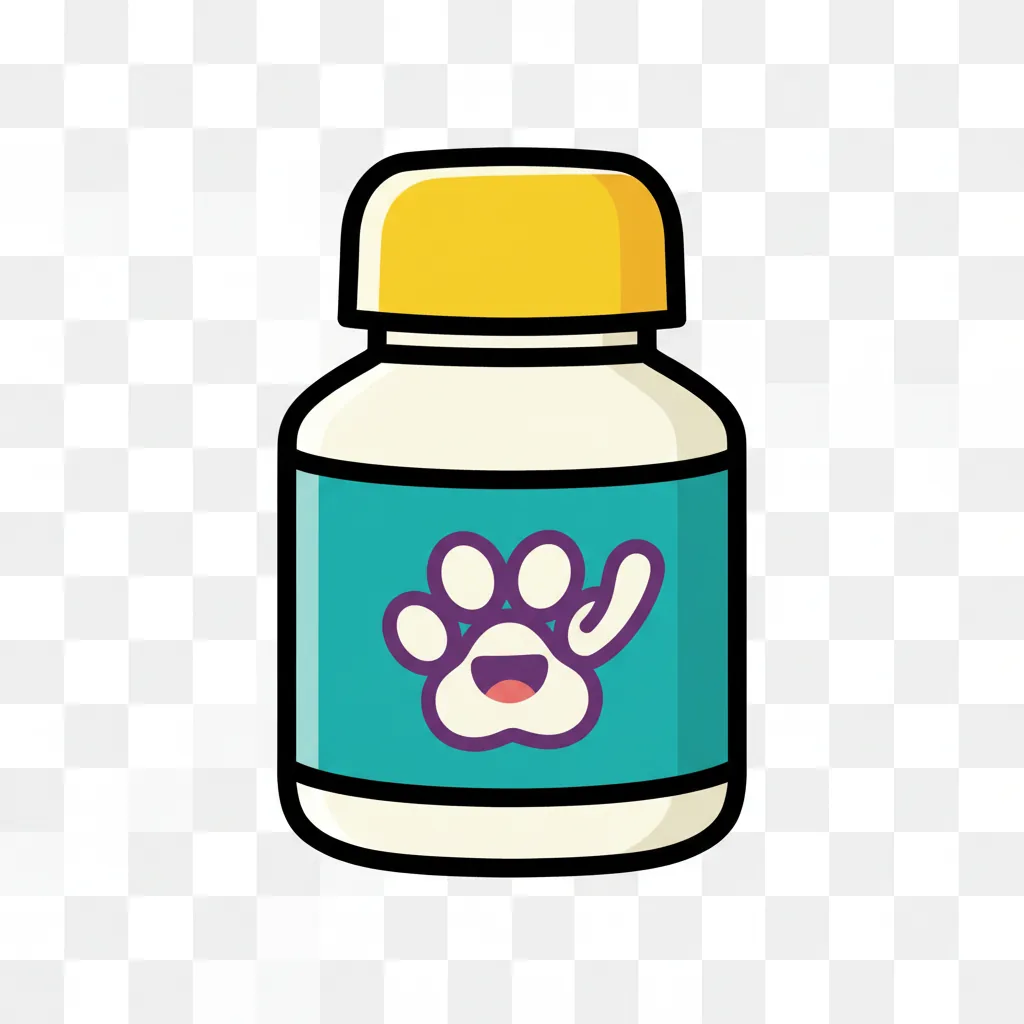
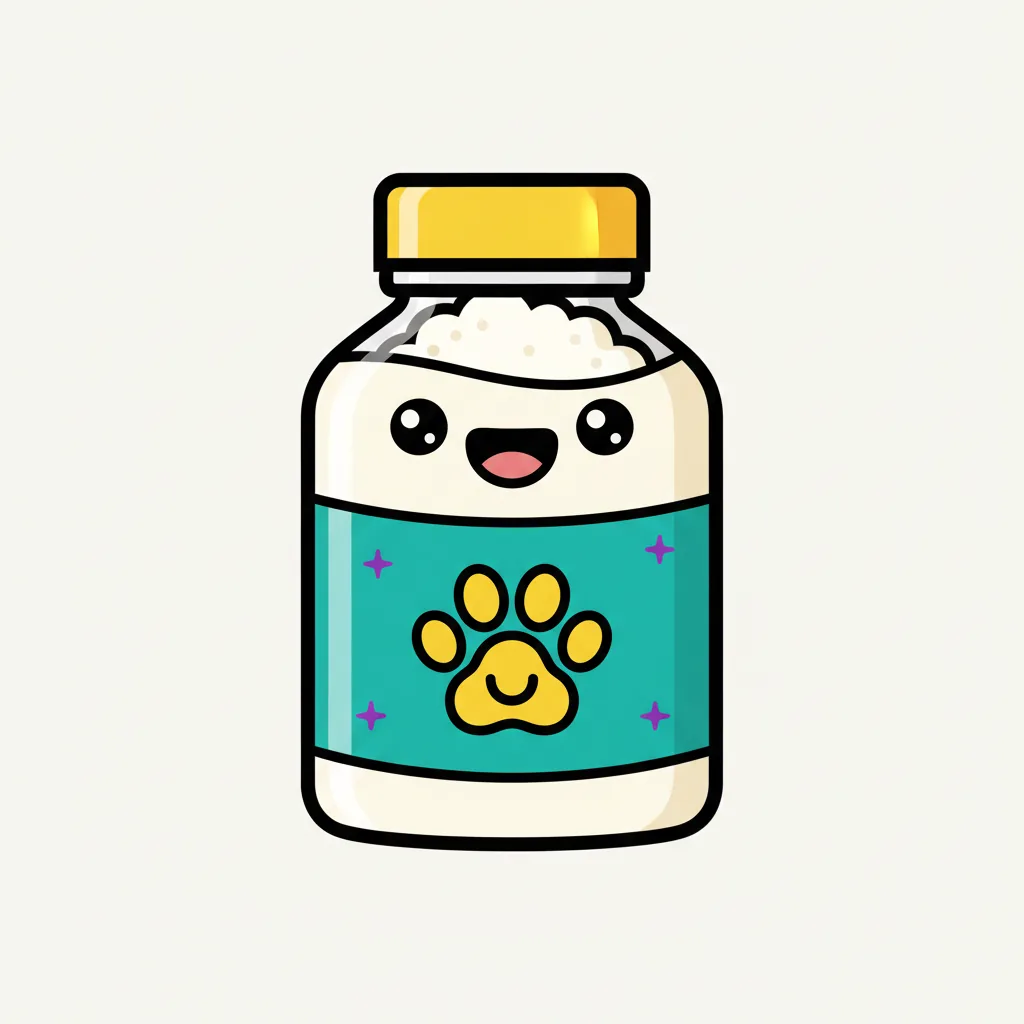
Fix mobile issues encontrados en trace
- Hero mobile: hero-visual max-width 540→360px, tags reposicionadas
  (hero-tag-2 estaba overflowing 8px del viewport)
- Compare table mobile: card-per-row con ✕/✓ inline en lugar de
  3 valores apilados sin agrupación visual
- Hero product: regenerada sin checkered transparency pattern,
  fondo off-white plano (era el principal eyesore en la sección 'Conocé Psweep')

Changed region(s): [[0.25, 0.125, 0.75, 0.875]]

diff --git a/index.html b/index.html
@@ -382,6 +382,12 @@
 
   @media (max-width: 900px) {
     .hero-grid { grid-template-columns: 1fr; gap: 40px; }
+    .hero-visual { max-width: 360px; }
+    .hero-tag { padding: 12px 16px; font-size: 14px; }
+    .hero-tag .badge { width: 48px; height: 48px; font-size: 22px; }
+    .hero-tag-1 { left: 0%; }
+    .hero-tag-2 { right: 0%; }
+    .hero-tag-3 { left: 14%; }
   }
 
   /* ============ SECTION SHELL ============ */
@@ -819,8 +825,56 @@
   }
   .compare-strong .yellow { color: var(--yellow); background: var(--ink); padding: 0 12px; border-radius: 8px; }
   @media (max-width: 700px) {
-    .ct-row { grid-template-columns: 1fr; }
-    .ct-row > div { border-right: none !important; border-bottom: 1px solid var(--line); }
+    .compare-table { background: transparent; border: none; box-shadow: none; }
+    .ct-row.head { display: none; }
+    .ct-row {
+      display: grid;
+      grid-template-columns: 1fr;
+      background: white;
+      border: 2.5px solid var(--ink);
+      border-bottom: 2.5px solid var(--ink) !important;
+      border-radius: var(--radius);
+      box-shadow: 0 4px 0 0 var(--ink);
+      margin-bottom: 14px;
+      overflow: hidden;
+    }
+    .ct-row > div { border: none !important; padding: 14px 18px; }
+    .ct-row > div:first-child {
+      background: var(--bg-soft);
+      font-family: var(--font-pop);
+      font-weight: 800;
+      font-size: 13px;
+      text-transform: uppercase;
+      letter-spacing: 0.08em;
+      color: var(--ink);
+      padding: 10px 18px;
+    }
+    .ct-row > div:nth-child(2) {
+      position: relative;
+      padding-left: 44px;
+      font-size: 14.5px;
+    }
+    .ct-row > div:nth-child(2)::before {
+      content: "✕";
+      position: absolute; left: 16px; top: 50%;
+      transform: translateY(-50%);
+      color: #D43A3A;
+      font-weight: 900;
+      font-size: 16px;
+    }
+    .ct-row > div:nth-child(3) {
+      position: relative;
+      padding-left: 44px;
+      font-size: 14.5px;
+    }
+    .ct-row > div:nth-child(3)::before {
+      content: "✓";
+      position: absolute; left: 16px; top: 50%;
+      transform: translateY(-50%);
+      color: var(--teal-deep);
+      font-weight: 900;
+      font-size: 18px;
+    }
   }
 
   /* ============ OFFER ============ */

diff --git a/scripts/gen_images.py b/scripts/gen_images.py
@@ -24,7 +24,9 @@ PROMPTS = {
     "hero-product": (
         "A cute friendly bottle of pet cleaning powder labeled 'Psweep', "
         "teal label with a happy paw print, yellow cap, white powder visible at top. "
-        "Centered on isolated transparent-looking background. Squared aspect. "
+        "PLAIN SOLID OFF-WHITE BACKGROUND (#F7F7F5), no checkered pattern, "
+        "no transparency grid, no decorative tiles around the bottle. "
+        "Just the bottle centered on a single flat background color. Square aspect. "
         f"{STYLE}"
     ),
     "step-1": (
